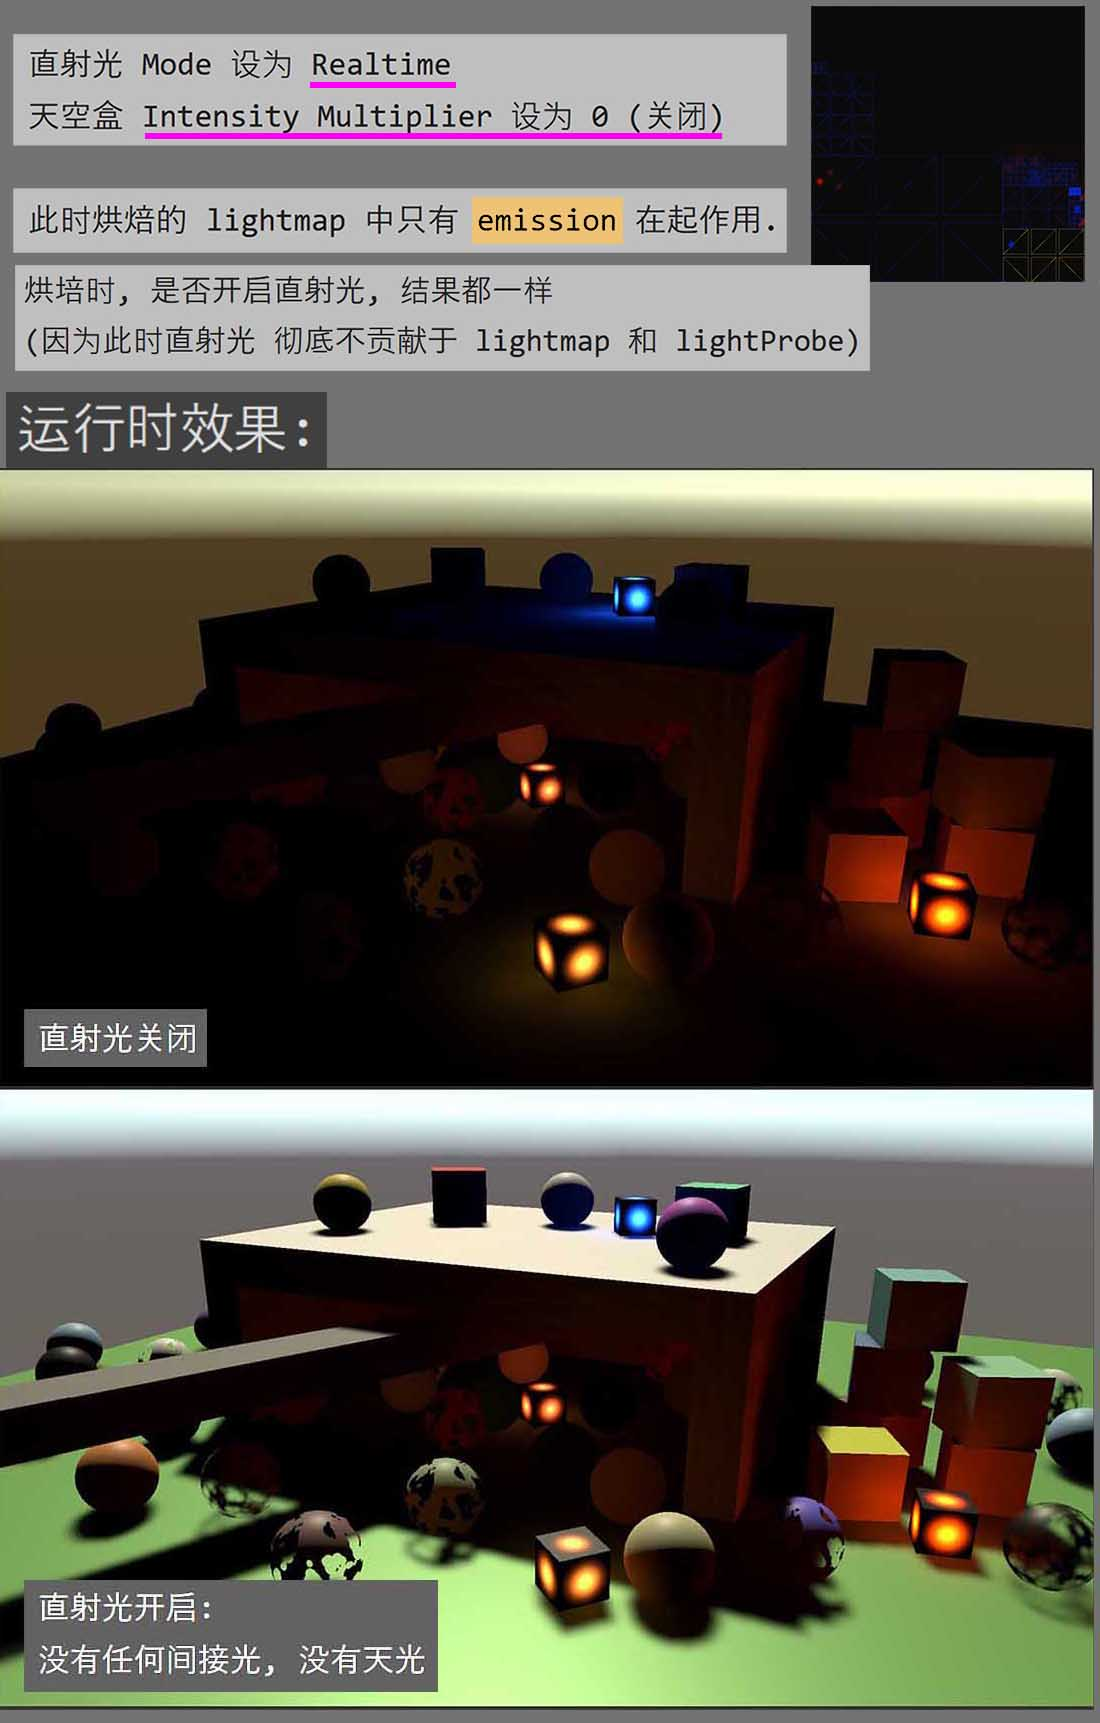
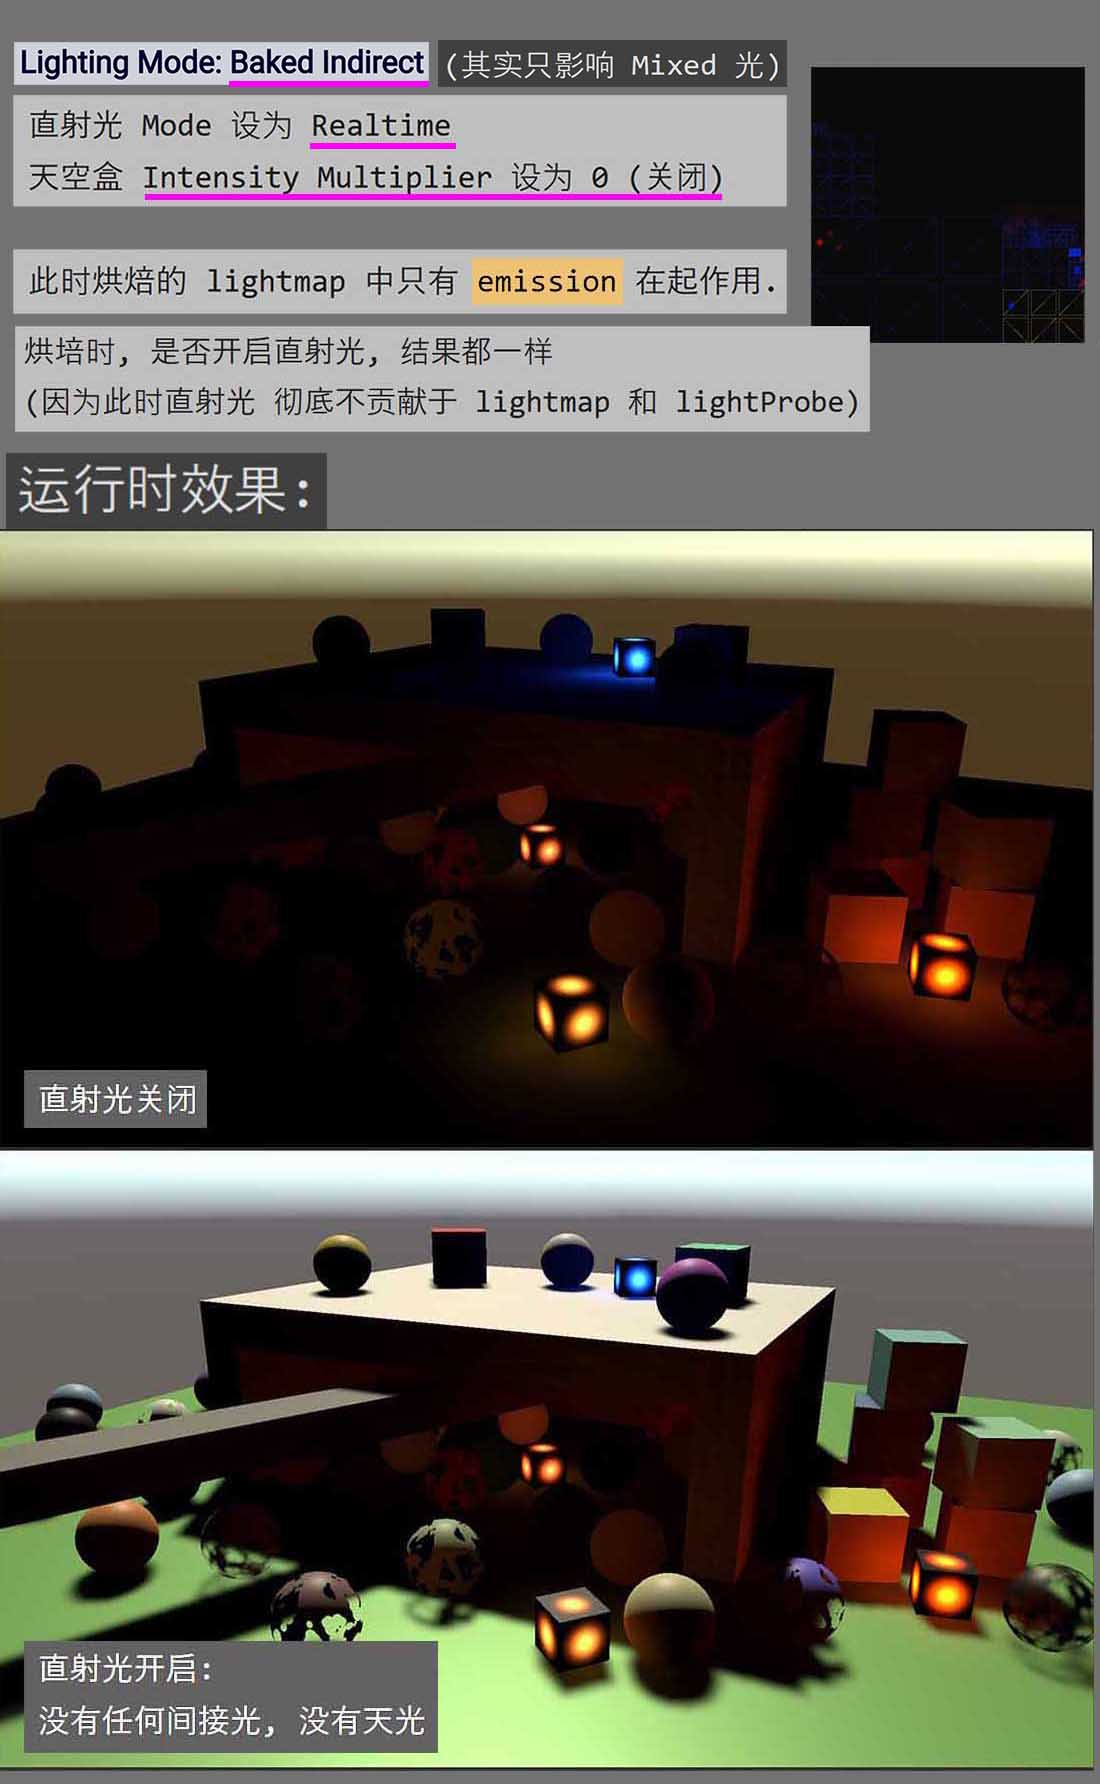
20210810-win1

diff --git a/Docs/Unity3D_2021/__官方文档/文档 Lighting Settings Asset.md b/Docs/Unity3D_2021/__官方文档/文档 Lighting Settings Asset.md
@@ -1,0 +1,372 @@
+# ================================================================ #
+#   Lighting Settings Asset
+# ================================================================ #
+
+
+... 未翻译...
+
+
+# ---------------------------------- #
+# Realtime Lighting
+
+此部分和 Enlighten 相关,已废弃
+
+
+# ---------------------------------- #
+# Mixed Lighting
+
+此部分包含的设置, 和 Baked Lights 和 Mixed Lights 相关. 
+
+# -- Baked Global Illumination
+    若被启用, unity 开始使用 烘焙的GI系统.
+    此时, 被设为 Baked 的光源, 将把自己的 直射光,间接光 全部写入 lightmap 中.
+    被设为 Mixed 的光源, 其具体行为受到下方 Lighting Mode 设置的影响. 
+
+    若被关闭, 则被设置为 Baked, Mixed 的光源, 统统被强制看作 Realtime 光源. 
+
+# -- Lighting Mode
+    影响所有被设置为 Mixed 的光源 的行为.
+    (每次修改此值, 都要重新烘培)
+
+    可选项:
+
+    == Baked Indirect:
+        对所有 Mixed 光源, 启用: Baked Indirect Lighting Mode 
+
+    == Subtractive:
+        对所有 Mixed 光源, 启用: Subtractive Lighting Mode 
+        (此模式在 HDRP 中不被支持)
+
+    == Shadowmask:
+        对所有 Mixed 光源, 启用: Shadowmask Lighting Mode 
+        (此模式在 URP 中不被支持)
+
+
+# ---------------------------------- #
+# Lightmapping Settings
+略
+
+...未完...
+
+
+# ================================================================ #
+#   Lighting Mode
+# ================================================================ #
+
+
+
+
+# ================================================================ #
+#   Lighting Mode: Baked Indirect
+# ================================================================ #
+只对场景中的 Mixed 光源起作用.
+
+# Render pipeline support
+全支持
+
+# Mixed Light behavior
+
+== 动态物体 (被 Mixed 光照到)
+    -- 
+        直接光照 被实时生成
+    -- 
+        间接光照 被烘焙进 LightProbe
+    -- 
+        动态物体投射出的阴影, 
+        在 shadow distance 范围内, 使用 shadowmap 来表达
+    -- 
+        静态物体投射出的实时阴影, 
+        在 shadow distance 范围内, 使用 shadowmap 来表达
+
+== 静态物体 (被 Mixed 光照到)
+    -- 
+        直接光照 被实时生成
+    --
+        间接光照 被烘焙进 Lightmap  
+    --
+        静态物体投射出的实时阴影, 
+        在 shadow distance 范围内, 使用 shadowmap 来表达
+    -- 
+        动态物体投射出的实时阴影, 
+        在 shadow distance 范围内, 使用 shadowmap 来表达
+
+
+# Setting your Scene’s Lighting Mode to Baked Indirect 
+略
+
+# Shadows and runtime performance
+在 Baked Indirect Lighting Mode 中, 所有源自 Mixed 光源的 阴影, 统统为 实时阴影. 
+
+这会影响性能.  可通过适当缩小 Shadow Distance 值, 来让 cascade shadow 的实现范围变小, 来提高性能.
+
+# Changing Light properties at runtime
+在 Baked Indirect Lighting Mode 中, 你可以轻微的在运行时 修改 Mixed 光源的配置.  对于直接光照部分, 这些细微的改变会体现出来. 对于间接光照部分, 这些细微的改变不会体现(因为被烘焙死了) 
+
+这允许你同时享受 "稍微有点动态性" 的直接光照 和 烘焙提供的间接光照.
+毕竟, Baked Indirect Lighting Mode 中的阴影 统统是 实时生成的. 
+
+但是, 这种改动必须是细微的.  比如:
+-- 不推荐在运行时, 把光源的颜色 从红色改成绿色. 
+-- 不要在运行时, 移动 mixed 光源. (毕竟间接光信息已经被写死了)
+
+
+
+# ================================================================ #
+#   Lighting Mode: Shadowmask
+# ================================================================ #
+只对场景中的 Mixed 光源起作用.
+
+
+在阴影部分 和 Baked Indirect Lighting Mode 存在差异:
+Shadowmask Lighting Mode 允许 unity 在运行时结合使用: 烘焙阴影 和 实时阴影.
+也支持在远超 Shaodw Distance 的距离上表现出阴影. 
+
+它是通过:
+    -- 一张额外的 lightmap texture (被命名为 shadow mask)
+    -- 一份额外的 Light Probe (存储了 occlusion 信息)
+    -- 额外的 LPPVs (存储了 occlusion 信息)
+来实现额.
+
+在所有的 Lighting Modes 中, Shadowmask Lighting Mode 提供了保真度最高的 阴影效果. 但同时 它的 性能成本 和 存储要求 也是最高的. 
+
+它适用于以下场合: 开放世界, 可看到远处的物体(进而需要它们的阴影), 运行在 高端中端设备上. 
+
+# ================================================== #
+# Render pipeline support
+-- built-in 支持. 
+    在只支持 4 个 render targets 的设备上(移动平台), Shadowmask Lighting Mode 会强制 unity 使用 forward rendering. 
+
+-- URP 10.1 以及之后的版本 支持.
+
+-- HDRP 支持. 还对 per-light basis 提供了额外的功能.
+    查看:
+    https://docs.unity3d.com/Packages/com.unity.render-pipelines.high-definition@latest/index.html?subfolder=/manual/Shadows-in-HDRP.html%23shadowmasks
+
+
+# ================================================== #
+# Mixed Light behavior
+
+# ------------------------------ #
+# -- With the Distance Shadowmask quality setting
+若将 Project Settings - Quality - shadowmask Mode 
+设置为: Distance Shadowmask
+
+Mixed 光源的行为如下:
+
+# == 动态物体 (被 Mixed 光源照亮)
+    -- 
+        直接光照 被实时生成
+    --
+        间接光照 被烘焙进 LightProbe
+    -- 
+        动态物体投射出的实时阴影, 
+        在 shadow distance 范围内, 使用 shadowmap 来表达
+#   -- 
+        静态物体投射出的实时阴影, 
+        在 shadow distance 范围内, 使用 shadowmap 来表达
+#   -- 
+        静态物体投射的 烘焙阴影, 
+        在 shadow distance 范围之外, 
+        使用 light Probe(occlusion) 来实现
+
+    === 总结: ===
+    只在 有限范围内接收 由动态物体 投射的阴影
+    可在 全局范围内接收 由静态物体 投射的阴影 
+        ( shadowmap + light Probe(occlusion) )
+
+
+# == 静态物体 (被 Mixed 光源照亮)
+    -- 
+        直接光照 被实时生成
+    --
+        间接光照 被烘焙进 Lightmap
+    -- 
+        动态物体投射出的实时阴影, 
+        在 shadow distance 范围内, 使用 shadowmap 来表达 
+#   --
+        静态物体投射出的实时阴影, 
+        在 shadow distance 范围内, 使用 shadowmap 来表达
+#   -- 
+        静态物体投射的 烘焙阴影, 
+        在 shadow distance 范围之外, 
+        使用 lightmap( shadowMask ) 来实现
+
+    === 总结: ===
+    只在 有限范围内接收 由动态物体 投射的阴影
+    可在 全局范围内接收 由静态物体 投射的阴影 
+        ( shadowmap + lightmap( shadowMask ) )
+
+
+# ------------------------------ #
+# With the Shadowmask quality setting
+若将 Project Settings - Quality - shadowmask Mode 
+设置为: Shadowmask
+
+Mixed 光源的行为如下:
+
+# == 动态物体 (被 Mixed 光源照亮)
+    -- 
+        直接光照 被实时生成
+    --
+        间接光照 被烘焙进 LightProbe
+    -- 
+        动态物体投射出的 实时阴影, 
+        在 shadow distance 范围内, 使用 shadowmap 来表达
+#   -- 
+        静态物体投射的 烘焙阴影, 
+        在任意范围内  (shadow distance 范围以内和以外) 
+        全由 light Probe(occlusion) 来实现
+
+    === 总结: ===
+    只在 有限范围内接收 由动态物体 投射的阴影
+    可在 全局范围内接收 由静态物体 投射的阴影 
+        ( 仅使用 light Probe(occlusion) )
+
+
+# == 静态物体 (被 Mixed 光源照亮)
+    -- 
+        直接光照 被实时生成
+    --
+        间接光照 被烘焙进 Lightmap  
+    -- 
+        动态物体投射出的实时阴影, 
+        在 shadow distance 范围内, 使用 shadowmap 来表达
+#   -- 
+        静态物体投射的 烘焙阴影, 
+        在任意范围内  (shadow distance 范围以内和以外) 
+        全由 lightmap( shadowMask ) 来实现
+
+    === 总结: ===
+    只在 有限范围内接收 由动态物体 投射的阴影
+    可在 全局范围内接收 由静态物体 投射的阴影 
+        ( 仅使用 lightmap( shadowMask ) )
+
+
+# catlike注:
+相比于 "Distance Shadowmask",  "Shadowmask" 模式 选择尽可能的用 烘焙阴影 取代 实时阴影.
+有效提高了性能. 
+
+相应的代价就是, 近处的 静态物体投射的阴影, 质量比较差. (毕竟 lightmap(shadowmask) 分辨率有限)
+
+问题: 在后者模式中, 静态物体还会被写入 shadowmap 吗 ? 
+
+
+
+
+
+# ================================================== #
+# Setting your Scene’s Lighting Mode to Shadowmask
+略
+
+# ================================================== #
+# Shadows and runtime performance
+Shadow Distance 以内的阴影 都是实时生成的, 以外的则是 烘焙生产的.
+可调节此值 来节省运算开销.
+
+tpr注:
+不过 shadow distance 以外的区域, 也只支持 静态物体投射的阴影. 
+替代能力还是很有限的. 
+
+
+# ================================================== #
+# Shadowmask implementation details
+在运行时, unity 使用 shadow mask 来确认, 一个 pix/frag 是否在阴影中. 
+shadow mask texture 包含了 遮蔽信息.
+它的 UV布局, 它的分辨率, 和姊妹 texture: lightmap 是一样的. 
+
+针对单个 texel, shadow mask 最多能存储 4个 光的信息, 分别存储在 RGBA 4个通道中. (我们通常只存储一个光源的, 所以只写入了 R 通道)
+
+如果要记录的光源数量超过了 4 个, 多出来的光源会从 Mixed 模式被修改为 Baked 模式 !!!! 
+    (也就是说, 它的光照信息(直接+间接), 阴影信息 都会被完全烘焙)
+
+light Probe(occlusion) 在这方面 和 lightmap(shadowmask) 保持一致.
+
+# tpr注: !!!!!!!!!
+    但这里要注意, 按照文档描述:
+    如果场景中存在 无数个 mixed光源, 且每个光源的 影响范围是相互不重叠的(不 overlap), 那么这所有 mixed 光源的 阴影信息, 可以被写入 单独一张 lightmap(shadowmask) 中 !
+    ---
+    就算存在少量重叠(overlap), 也是允许的, 比如 lightmap(shadowmask) 中的一个 texel, 最多能允许 4个 mixed 光源 照射到它. 然后把这 4个光的 阴影信息,按照 RGBA 记录到 texel 中. (如果重叠的更多, 多出来的 光源会被强行修改为 Baked 模式)
+    ---
+    所以理论上, 只要保证 mixed 光源之间尽可能不重叠, 一个 GameObj 上是能受到 10 栈不同的 mixed 光源的 阴影影响的. 
+    ===
+    以上同理于 light Probe(occlusion)
+
+
+# ================================================================ #
+#   Lighting Mode: Subtractive
+# ================================================================ #
+只对场景中的 Mixed 光源起作用.
+
+在 Subtractive Lighting Mode 中, 所有 mixed 光源 对 直接光照 和 间接光照 都做了烘焙. 
+unity 将 静态物体投射的阴影 全部烘焙进了 lightmap. (不管在什么距离)
+然后, 使用 一个 主平行光, 向场景中的动态物体 提供 实时阴影. 
+
+# tpr注:
+    在这里, 静态物体投射的阴影, 不是烘焙进 shadowMask 中, 而是烘焙进了
+    lightmap. 这些阴影信息, 已经和 间接光,直接光 信息混合到一起了.
+
+由于 阴影被混入了 lightmap, 此模式中, unity 无法精确德混合 烘焙阴影 和 实时阴影. 相反, 在这个混合过程中, unity 提供一种 Realtime Shadow Color, 以降低 lightmap 的贡献, 从而因造成 看似正确的 混合假象. 
+
+你甚至可以认为调整这个值, 来实现一些特殊效果
+
+Subtractive Lighting Mode 可用于低性能平台. 此时, 你只需要一个能投射阴影的 实时光(平行光).  它无法提供非常真实的光照效果, 但很适用于 非真实渲染, 比如: cel shading.
+
+# ========================================= #
+# Render pipeline support
+其它平台支持, HDRP 不支持
+
+
+# ========================================= #
+# Mixed Light behavior
+
+Mixed 光源的行为如下:
+
+# == 动态物体 (被 Mixed 光源照亮)
+    -- 
+        直接光照 被实时生成
+    --
+        间接光照 被烘焙进 LightProbe
+    -- 
+        动态物体投射出的 实时阴影, (主平行光 照出来的)
+        在 shadow distance 范围内, 使用 shadowmap 来表达
+   -- 
+        静态物体投射的 阴影, 
+        在任意范围内  (shadow distance 范围以内和以外) 
+        全由 light Probe(occlusion) 来实现
+
+    === 总结: ===
+    
+
+
+# == 静态物体 (被 Mixed 光源照亮)
+    -- 
+        直接光照 被烘焙进 lightmap
+    --
+        间接光照 被烘焙进 lightmap 
+    -- 
+        静态物体投射的阴影, 被烘焙进 lightmap 
+    -- 
+        动态物体投射出的 实时阴影, (主平行光 照出来的)
+        在 shadow distance 范围内, 使用 shadowmap 来表达
+
+    === 总结: ===
+    
+
+# ========================================= #
+# Setting your Scene’s Lighting Mode to Subtractive
+略
+
+
+# ========================================= #
+# Changing the shadow color
+在 Lighting 窗口中, 修改 Realtime Shadow Color 属性. 
+
+
+# ========================================= #
+# The Main Directional Light
+unity 自动将场景中, intensity 值最高的 平行光, 设置为 主平行光. 
+
+
+
+
+
